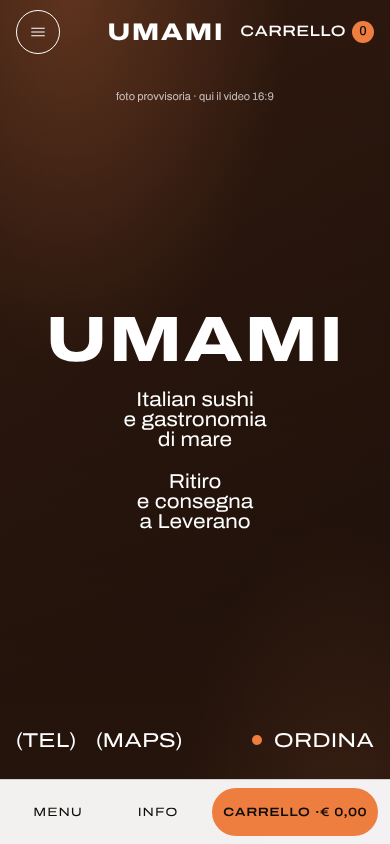
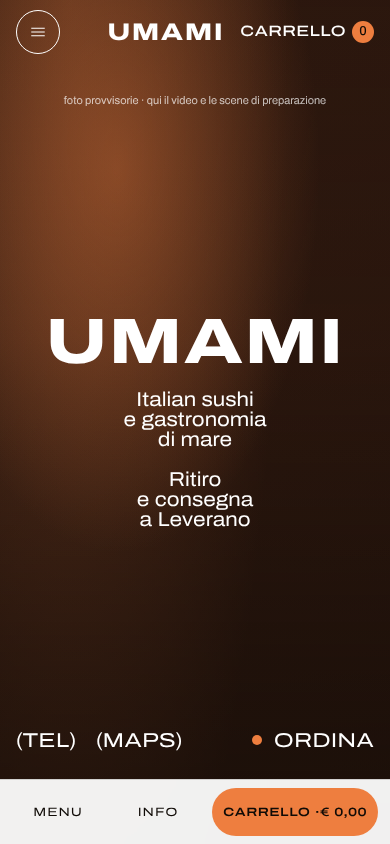
Home v2 costruita sullo studio dal vivo di Sakazuki e Watchhouse
Palcoscenico con foto ferma e capitoli che scorrono, foto in dissolvenza,
cornice fissa e luce arancio; sotto, due pannelli fotografici, enunciato,
piatti firmati e tessere in stile Watchhouse. Tolte le sezioni inventate.

Claude-Session: https://claude.ai/code/session_01LSCnPxq5ZLnrvnRqcxrqF5

diff --git a/prototipo/index.html b/prototipo/index.html
@@ -14,6 +14,7 @@
 <link rel="stylesheet" href="../assets/css/components.css">
 <link rel="stylesheet" href="../assets/css/pagine.css">
 <link rel="stylesheet" href="../assets/css/v7.css">
+<link rel="stylesheet" href="../assets/css/home.css">
 <style>img.manca { display: none; }</style>
 </head>
 <body>
@@ -51,72 +52,87 @@
 
 <main id="contenuto">
 
-<!-- APERTURA (Sakazuki 1–2) · in produzione: video 16:9 in loop, muto, con pausa -->
-<section class="v7-hero" aria-labelledby="hero-t">
-  <div class="v7-hero__media"><img src="../assets/img/provvisorie/copertina_misto.jpg" alt="" fetchpriority="high" onerror="this.classList.add('manca')"></div>
-  <p class="v7-hero__nota" aria-hidden="true">foto provvisoria · qui il video 16:9</p>
-  <div class="v7-hero__centro">
-    <p class="v7-hero__lato v7-hero__lato--sx">Italian sushi<br>e gastronomia<br>di mare</p>
-    <h1 class="v7-hero__marchio" id="hero-t">UMAMI<span class="sr-only"> Salento, Italian sushi a Leverano</span></h1>
-    <p class="v7-hero__lato v7-hero__lato--dx">Ritiro<br>e consegna<br>a Leverano</p>
+<!-- PALCOSCENICO (Sakazuki): una foto ferma a tutto schermo, il testo scorre sopra in capitoli,
+     la foto cambia in dissolvenza a ogni capitolo, cornice fissa (link, orologio, Ordina).
+     In produzione: i fondi diventano il video 16:9 e le scene di preparazione dello shooting. -->
+<section class="palco" aria-label="Umami Salento">
+  <div class="palco__fondi" aria-hidden="true">
+    <img class="is-attivo" data-cap="0" src="../assets/img/provvisorie/copertina_misto.jpg" alt="" fetchpriority="high" onerror="this.classList.add('manca')">
+    <img data-cap="1" src="../assets/img/provvisorie/18.jpg" alt="" loading="lazy" onerror="this.classList.add('manca')">
+    <img data-cap="2" src="../assets/img/provvisorie/copertina-6.jpg" alt="" loading="lazy" onerror="this.classList.add('manca')">
+    <span class="palco__nota">foto provvisorie · qui il video e le scene di preparazione</span>
   </div>
-  <div class="v7-hero__piede">
-    <nav class="v7-hero__link" aria-label="Contatti rapidi"><a href="tel:+393476168387">(Tel)</a><a href="https://www.google.com/maps/search/?api=1&amp;query=Via+della+Consolazione+55+73045+Leverano+LE" rel="noopener">(Maps)</a></nav>
-    <p class="v7-hero__orologio"><span id="orologio">Leverano</span></p>
-    <a class="v7-hero__cta" href="ordina/">Ordina</a>
+
+  <div class="palco__cap palco__cap--apertura" data-cap="0">
+    <p class="palco__lato palco__lato--sx">Italian sushi<br>e gastronomia<br>di mare</p>
+    <h1 class="palco__marchio">UMAMI<span class="sr-only"> Salento, Italian sushi a Leverano</span></h1>
+    <p class="palco__lato palco__lato--dx">Ritiro<br>e consegna<br>a Leverano</p>
+  </div>
+
+  <div class="palco__cap" data-cap="1" id="chi-siamo">
+    <p class="palco__piccolo">Umami nasce dalla connessione di due cuochi salentini, appassionati e ricercatori di prodotti del territorio</p>
+    <h2 class="palco__gigante">Il territorio<br><span class="palco__segno" aria-hidden="true">✕</span><br>il mondo</h2>
+    <p class="palco__piccolo">che contaminano con sapori unici provenienti da tutto il mondo.</p>
+  </div>
+
+  <div class="palco__cap" data-cap="2">
+    <p class="palco__etichetta">Ogni sera</p>
+    <p class="palco__frase">Gastronomia di mare e Italian sushi. Ritiro in Via della Consolazione, consegna a domicilio, catering in Salento.</p>
+    <a class="u-btn u-btn--l u-btn--segnale" href="ordina/">Ordina per stasera</a>
+  </div>
+
+  <div class="palco__cornice">
+    <nav class="palco__link" aria-label="Contatti rapidi"><a href="tel:+393476168387">(Tel)</a><a href="https://www.google.com/maps/search/?api=1&amp;query=Via+della+Consolazione+55+73045+Leverano+LE" rel="noopener">(Maps)</a></nav>
+    <p class="palco__orologio"><span id="orologio">Leverano</span></p>
+    <a class="palco__cta" href="ordina/">Ordina</a>
   </div>
 </section>
 
-<!-- COLONNA CENTRATA (Sakazuki 3) · testo reale da "Chi siamo" -->
-<section class="contenitore v7-colonna" id="chi-siamo" aria-labelledby="chi-t">
-  <p class="rivela">Umami nasce dalla connessione di due cuochi salentini, appassionati e ricercatori di prodotti del territorio</p>
-  <h2 class="v7-gigante rivela" id="chi-t" style="--i:1">Il territorio</h2>
-  <span class="v7-timbro rivela" style="--i:2" aria-hidden="true">UMAMI</span>
-  <p class="v7-gigante rivela" style="--i:3" aria-hidden="true"><em>Il mondo</em></p>
-  <p class="rivela" style="--i:4">che contaminano con sapori unici provenienti da tutto il mondo.</p>
-  <a class="u-btn u-btn--l rivela" style="--i:5" href="ordina/">Guarda il menu</a>
+<!-- DUE PANNELLI (Watchhouse "Shop coffee."): foto grandi affiancate, titolo col punto, riga e freccia -->
+<section class="duo" aria-label="Ordina o prenota un catering">
+  <a class="duo__pannello" href="ordina/">
+    <img src="../assets/img/provvisorie/tartare2.jpg" alt="" loading="lazy" onerror="this.classList.add('manca')">
+    <span class="duo__num" aria-hidden="true">01</span>
+    <span class="duo__testo"><span class="duo__titolo">Ordina il menu.</span><span class="duo__riga">Ritiro o consegna stasera <span aria-hidden="true">→</span></span></span>
+  </a>
+  <a class="duo__pannello" href="tel:+393476168387" id="servizi">
+    <img src="../assets/img/provvisorie/buffet.jpg" alt="" loading="lazy" onerror="this.classList.add('manca')">
+    <span class="duo__num" aria-hidden="true">02</span>
+    <span class="duo__testo"><span class="duo__titolo">Catering.</span><span class="duo__sotto">Vassoi per eventi privati e aziendali, servizio on site con open bar.</span><span class="duo__riga">Chiama per un preventivo <span aria-hidden="true">→</span></span></span>
+  </a>
 </section>
 
-<!-- PIATTI FIRMATI · nomi, prezzi e descrizioni dal catalogo reale; foto provvisorie -->
-<section class="sezione" style="padding-top:0" aria-labelledby="firme-t">
-  <div class="contenitore">
-    <div class="v7-sez-testa"><h2 id="firme-t">Il Salento, <em>in un roll</em></h2><a class="u-btn u-btn--secondario" href="ordina/">Tutto il menu</a></div>
-    <div class="v7-prodotti" id="firme"></div>
+<!-- ENUNCIATO (Watchhouse "Modern Coffee."): etichetta a sinistra, frase grande a destra -->
+<section class="enunciato contenitore" aria-labelledby="enu-t">
+  <h2 class="enunciato__etichetta" id="enu-t">Umami Salento.</h2>
+  <p class="enunciato__frase rivela">Due cuochi salentini, i prodotti del territorio e i sapori di tutto il mondo: Italian sushi, poke, tartare e cucina di mare, da ritirare o con consegna a domicilio.</p>
+</section>
+
+<!-- PIATTI FIRMATI -->
+<section class="contenitore firme" aria-labelledby="firme-t">
+  <div class="firme__testa"><h2 class="enunciato__etichetta" id="firme-t">Piatti firmati.</h2><a class="firme__tutto" href="ordina/">Tutto il menu <span aria-hidden="true">→</span></a></div>
+  <div class="firme__griglia" id="firme"></div>
+</section>
+
+<!-- ALTRE ANIME (Watchhouse: tessere con l'etichetta dentro la foto) -->
+<section class="contenitore tessere" aria-labelledby="anime-t">
+  <h2 class="enunciato__etichetta" id="anime-t">Non solo take away.</h2>
+  <div class="tessere__griglia">
+    <div class="tessera"><img src="../assets/img/provvisorie/18.jpg" alt="" loading="lazy" onerror="this.classList.add('manca')"><span class="tessera__nome">Ramen</span><span class="tessera__nota">Contenuti in arrivo</span></div>
+    <div class="tessera"><img src="../assets/img/provvisorie/buffet2.jpg" alt="" loading="lazy" onerror="this.classList.add('manca')"><span class="tessera__nome">Chef a domicilio</span><span class="tessera__nota">Contenuti in arrivo</span></div>
+    <div class="tessera"><span class="tessera__nome">Street food</span><span class="tessera__nota">Arriva con la mascotte</span></div>
   </div>
 </section>
 
-<!-- COME SI ORDINA -->
-<section class="sezione" style="padding-top:0" aria-labelledby="come-t">
-  <div class="contenitore">
-    <div class="p-testa"><p class="eyebrow">Ordinare online</p><h2 id="come-t">Pronto <em>per stasera</em></h2></div>
-    <ol class="h-passi">
-      <li class="rivela"><h3>Scegli dal menu</h3><p>Uramaki, poke, tartare, gyoza, bao e bevande. Allergeni indicati su ogni piatto.</p></li>
-      <li class="rivela" style="--i:1"><h3>Ritiro o consegna</h3><p>Scegli l'orario. Ritiri in Via della Consolazione 55 a Leverano, oppure lo portiamo a casa tua.</p></li>
-      <li class="rivela" style="--i:2"><h3>Paghi alla fine</h3><p>Il pagamento avviene al ritiro o alla consegna.</p></li>
-    </ol>
-  </div>
-</section>
-
-<!-- SERVIZI · fascia in lacca -->
-<section class="sezione tema-lacca u-grana" id="servizi" aria-labelledby="serv-t">
-  <div class="contenitore">
-    <div class="p-testa"><p class="eyebrow">Non solo take away</p><h2 id="serv-t">Le anime <em>di Umami</em></h2><hr class="u-filo u-filo--corto"></div>
-    <div class="griglia h-servizi" id="servizi-griglia"></div>
-  </div>
-</section>
-
-<!-- DOVE E QUANDO -->
-<section class="sezione" aria-labelledby="info-t">
-  <div class="contenitore h-info">
-    <div class="stack" style="--stack:var(--s-4)"><p class="eyebrow">Dove e quando</p><h2 id="info-t">Via della Consolazione, <em>Leverano</em></h2>
-      <p class="t-lead">Passa a ritirare o chiamaci per un evento.</p></div>
-    <dl class="rivela">
-      <dt>Indirizzo</dt><dd>Via della Consolazione 55<br>73045 Leverano (LE)<br><a class="u-link" href="https://www.google.com/maps/search/?api=1&amp;query=Via+della+Consolazione+55+73045+Leverano+LE" rel="noopener">Apri in Maps</a></dd>
-      <dt>Orari</dt><dd>Tutti i giorni 19:00–23:30<br>Mercoledì chiuso<br><span class="u-stato" data-stato></span></dd>
-      <dt>Telefono</dt><dd><a class="u-link" href="tel:+393476168387">+39 347 616 8387</a></dd>
-      <dt>Catering</dt><dd>Province di Lecce, Taranto e Brindisi</dd>
-    </dl>
-  </div>
+<!-- DOVE E QUANDO: stessa impaginazione etichetta / contenuto -->
+<section class="enunciato contenitore" aria-labelledby="info-t">
+  <h2 class="enunciato__etichetta" id="info-t">Dove e quando.</h2>
+  <dl class="info">
+    <div><dt>Indirizzo</dt><dd>Via della Consolazione 55<br>73045 Leverano (LE)<br><a class="u-link" href="https://www.google.com/maps/search/?api=1&amp;query=Via+della+Consolazione+55+73045+Leverano+LE" rel="noopener">Apri in Maps</a></dd></div>
+    <div><dt>Orari</dt><dd>Tutti i giorni 19:00–23:30<br>Mercoledì chiuso<br><span class="u-stato" data-stato></span></dd></div>
+    <div><dt>Telefono</dt><dd><a class="u-link" href="tel:+393476168387">+39 347 616 8387</a></dd></div>
+    <div><dt>Catering</dt><dd>Province di Lecce, Taranto e Brindisi</dd></div>
+  </dl>
 </section>
 
 </main>
@@ -140,31 +156,34 @@
 <script>
 (function () {
   var U = window.UMAMI, P = U.PRODOTTI;
-  /* Piatti firmati: quelli con i nomi del territorio o la ricetta di casa */
+  /* Piatti firmati: i roll col nome del territorio e la ricetta di casa */
   var firme = ["leverano-roll", "umami-roll", "salento-roll", "tartare-di-tonno"];
   document.getElementById("firme").innerHTML = firme.map(function (id, i) {
     var x = P[id]; if (!x) return "";
-    return '<article class="v7-prod rivela" style="--i:' + i + '">' +
-      '<div class="v7-prod__media"><img src="' + U.IMG + x.foto + '" alt="" loading="lazy" onerror="this.classList.add(\'manca\')"></div><span class="v7-prod__badge">Foto provvisoria</span>' +
-      '<div class="v7-prod__corpo"><div class="v7-prod__riga"><h3 class="v7-prod__nome">' + U.esc(x.nome) + '</h3>' + U.prezzo(x) + '</div>' +
-      '<p class="v7-prod__desc">' + U.esc(x.d) + '</p><div class="v7-prod__piede">' + U.allergeni(x.al) + U.bottoneAggiungi(x) + '</div></div></article>';
+    return '<article class="piatto rivela" style="--i:' + i + '">' +
+      '<div class="piatto__foto"><img src="' + U.IMG + x.foto + '" alt="" loading="lazy" onerror="this.classList.add(\'manca\')"><span class="piatto__badge">Foto provvisoria</span></div>' +
+      '<div class="piatto__riga"><h3 class="piatto__nome">' + U.esc(x.nome) + '.</h3>' + U.prezzo(x) + '</div>' +
+      '<p class="piatto__desc">' + U.esc(x.d) + '</p>' +
+      '<div class="piatto__piede">' + U.allergeni(x.al) + U.bottoneAggiungi(x) + '</div></article>';
   }).join("");
 
-
-  /* Servizi: testi dal sito attuale; dove mancano, lo dichiariamo */
-  var servizi = [
-    { t: "Sushi take away", d: "Italian sushi, poke e tartare da ritirare o con consegna a domicilio.", img: "copertina_3.jpg", href: "ordina/", cta: "Ordina" },
-    { t: "Catering", d: "Vassoi per eventi privati e aziendali, servizio on site con open bar.", img: "buffet.jpg", href: "tel:+393476168387", cta: "Chiama per un preventivo" },
-    { t: "Ramen", d: "Contenuti in arrivo: produzione artigianale del ramen.", img: "18.jpg" },
-    { t: "Chef a domicilio", d: "Contenuti in arrivo dal cliente.", img: "buffet2.jpg" },
-    { t: "Street food", d: "Food truck, fiere ed eventi. Arriva con la mascotte.", img: "" }
-  ];
-  document.getElementById("servizi-griglia").innerHTML = servizi.map(function (s, i) {
-    var tag = s.href ? "a" : "div";
-    return "<" + tag + ' class="u-servizio rivela' + (s.img ? "" : " u-servizio--in-arrivo") + '" style="--i:' + i + '"' + (s.href ? ' href="' + s.href + '"' : "") + ">" +
-      '<div class="u-servizio__media u-foto-calda rivela-img" style="--i:' + i + '">' + (s.img ? '<img src="' + U.IMG + s.img + '" alt="" loading="lazy" onerror="this.classList.add(\'manca\')">' : "<span>foto in arrivo</span>") + "</div>" +
-      '<div class="u-servizio__corpo"><h3 class="u-servizio__titolo">' + s.t + '</h3><p class="t-meta">' + s.d + "</p>" + (s.cta ? '<span class="u-servizio__cta">' + s.cta + "</span>" : "") + "</div></" + tag + ">";
-  }).join("");
+  /* Palcoscenico: la foto di fondo cambia col capitolo in vista */
+  var fondi = document.querySelectorAll(".palco__fondi img");
+  if ("IntersectionObserver" in window) {
+    var io = new IntersectionObserver(function (voci) {
+      voci.forEach(function (v) {
+        if (!v.isIntersecting) return;
+        var n = v.target.getAttribute("data-cap");
+        fondi.forEach(function (f) { f.classList.toggle("is-attivo", f.getAttribute("data-cap") === n); });
+        v.target.classList.add("is-in-scena");
+      });
+    }, { threshold: 0.45 });
+    document.querySelectorAll(".palco__cap").forEach(function (c) { io.observe(c); });
+  }
+  /* la testata resta trasparente per tutto il palcoscenico */
+  var palco = document.querySelector(".palco"), hd = document.querySelector(".v7-header");
+  function sopra() { if (hd && palco) hd.classList.toggle("is-scorso", palco.getBoundingClientRect().bottom < 80); }
+  addEventListener("scroll", sopra, { passive: true }); sopra();
   U.osserva();
 })();
 </script>

diff --git a/assets/css/home.css b/assets/css/home.css
@@ -1,0 +1,108 @@
+/* =========================================================================
+   UMAMI — Home v2 · costruita sui siti premiati studiati dal vivo
+   Sakazuki: palcoscenico con foto ferma a tutto schermo, testo che scorre sopra
+             in capitoli, foto che cambia in dissolvenza, cornice fissa.
+             Il calore viene dalla LUCE delle foto (qui una velatura arancio).
+   Watchhouse: due pannelli fotografici affiancati con titolo col punto e riga
+             con freccia; etichetta a sinistra e frase grande a destra; tessere
+             con l'etichetta dentro la foto. Fondo chiaro, margini di 20 px.
+   ========================================================================= */
+
+/* ---------- Palcoscenico ---------- */
+.palco { position: relative; overflow: clip; color: #fff; background-color: var(--c-rame-2); background-image: var(--rame-sfumato); isolation: isolate; }
+.palco__fondi { position: sticky; top: 0; height: 100svh; margin-bottom: -100svh; overflow: hidden; z-index: 0; }
+.palco__fondi img { position: absolute; inset: 0; width: 100%; height: 100%; object-fit: cover; opacity: 0; transform: scale(1.06);
+  transition: opacity 1200ms var(--ease), transform 2400ms var(--ease); }
+.palco__fondi img.is-attivo { opacity: 1; transform: scale(1); }
+/* velatura: luce calda arancio dall'alto, ombra in basso (come la luce ambrata di Sakazuki) */
+.palco__fondi::after { content: ""; position: absolute; inset: 0; pointer-events: none;
+  background: radial-gradient(80% 70% at 30% 20%, rgba(238,126,63,.38), rgba(238,126,63,0) 65%), linear-gradient(180deg, rgba(22,13,8,.35) 0%, rgba(22,13,8,.25) 40%, rgba(22,13,8,.7) 100%);
+  mix-blend-mode: normal; }
+.palco__nota { position: absolute; top: 92px; left: 50%; translate: -50% 0; font-size: .6875rem; opacity: .7; z-index: 1; white-space: nowrap; }
+.palco__cap { position: relative; z-index: 1; min-height: 100svh; display: grid; place-content: center; justify-items: center; text-align: center; gap: clamp(20px, 3vw, 36px); padding: 120px var(--gutter); }
+.palco__cap > * { opacity: 0; transform: translateY(24px); transition: opacity 900ms var(--ease), transform 900ms var(--ease); }
+.palco__cap.is-in-scena > * { opacity: 1; transform: none; }
+.palco__cap.is-in-scena > *:nth-child(2) { transition-delay: 120ms; } .palco__cap.is-in-scena > *:nth-child(3) { transition-delay: 240ms; }
+html:not(.js) .palco__cap > * { opacity: 1; transform: none; }
+@media (prefers-reduced-motion: reduce) { .palco__fondi img, .palco__cap > * { transition-duration: 1ms; transform: none; } }
+
+/* Capitolo 1: marchio al centro, due testi in cornice simmetrica */
+.palco__cap--apertura { grid-template-columns: 1fr auto 1fr; align-items: center; gap: clamp(20px, 4vw, 56px); padding-inline: 28px; }
+.palco__marchio { font-family: var(--font-display); font-stretch: 125%; font-weight: 800; font-size: clamp(4rem, 1rem + 11vw, 11rem); line-height: .85; letter-spacing: .02em; color: #fff; text-transform: uppercase; }
+.palco__lato { font-family: var(--font-display); font-stretch: 112%; font-size: clamp(1.25rem, .8rem + 1vw, 1.9rem); line-height: 1; max-width: none; }
+.palco__lato--sx { text-align: right; justify-self: end; } .palco__lato--dx { text-align: left; justify-self: start; }
+/* Capitolo 2: piccolo / gigante / piccolo */
+.palco__piccolo { max-width: 32ch; font-family: var(--font-display); font-stretch: 112%; font-size: clamp(1.0625rem, .9rem + .4vw, 1.375rem); line-height: 1.25; }
+.palco__gigante { font-weight: 500; font-size: clamp(2.8rem, .6rem + 8.4vw, 8.5rem); line-height: .92; color: #fff; }
+.palco__segno { display: inline-block; font-size: .32em; color: var(--c-corallo); line-height: 1; padding-block: .2em; }
+/* Capitolo 3: etichetta e frase */
+.palco__etichetta { font-family: var(--font-display); font-stretch: 125%; text-transform: uppercase; letter-spacing: .14em; font-size: .8125rem; }
+.palco__frase { max-width: 24ch; font-family: var(--font-display); font-stretch: 112%; font-size: clamp(1.75rem, 1rem + 2.6vw, 3.4rem); line-height: 1.08; }
+/* Cornice fissa in basso (resta per tutto il palcoscenico) */
+.palco__cornice { position: sticky; bottom: 0; z-index: 2; display: grid; grid-template-columns: 1fr auto 1fr; align-items: end; padding: 0 28px 24px; margin-top: -96px; height: 96px; pointer-events: none; }
+.palco__cornice a { pointer-events: auto; }
+.palco__link { display: flex; gap: 20px; }
+.palco__link a, .palco__cta { font-family: var(--font-display); font-stretch: 125%; text-transform: uppercase; font-size: clamp(1.25rem, .6rem + 1.6vw, 2.65rem); line-height: 1.2; text-decoration: none; color: #fff; }
+.palco__orologio { font-family: var(--font-display); font-stretch: 125%; text-transform: uppercase; font-size: 1.0625rem; padding-bottom: 10px; }
+.palco__cta { justify-self: end; display: inline-flex; align-items: center; gap: 12px; }
+.palco__cta::before { content: ""; width: 10px; height: 10px; border-radius: 50%; background: var(--c-corallo); }
+@media (hover: hover) and (pointer: fine) { .palco__link a:hover, .palco__cta:hover { text-decoration: underline; text-decoration-thickness: 2px; text-underline-offset: .15em; } }
+@media (max-width: 760px) {
+  .palco__cap--apertura { grid-template-columns: 1fr; justify-items: center; }
+  .palco__lato--sx, .palco__lato--dx { text-align: center; justify-self: center; }
+  .palco__marchio { order: -1; }
+  .palco__cornice { grid-template-columns: 1fr auto; padding: 0 16px 92px; height: 160px; margin-top: -160px; }
+  .palco__orologio { display: none; }
+}
+
+/* ---------- Due pannelli (Watchhouse) ---------- */
+.duo { display: grid; grid-template-columns: 1fr 1fr; gap: 0; padding: 20px 20px 0; }
+@media (max-width: 760px) { .duo { grid-template-columns: 1fr; padding: 12px 12px 0; gap: 12px; } }
+.duo__pannello { position: relative; aspect-ratio: 1 / 0.92; overflow: hidden; color: #fff; text-decoration: none; background: var(--c-rame-1); }
+.duo__pannello img { position: absolute; inset: 0; width: 100%; height: 100%; object-fit: cover; transition: transform 1200ms var(--ease); }
+.duo__pannello::after { content: ""; position: absolute; inset: 0; background: linear-gradient(180deg, rgba(22,13,8,0) 45%, rgba(22,13,8,.62)); }
+@media (hover: hover) and (pointer: fine) { .duo__pannello:hover img { transform: scale(1.04); } .duo__pannello:hover .duo__riga span { transform: translateX(6px); } }
+.duo__num { position: absolute; top: 20px; left: 20px; z-index: 1; font-size: .8125rem; font-variant-numeric: tabular-nums; }
+.duo__testo { position: absolute; left: 20px; right: 20px; bottom: 28px; z-index: 1; display: grid; gap: 12px; max-width: 30rem; }
+.duo__titolo { font-family: var(--font-display); font-stretch: 112%; font-weight: 600; font-size: clamp(2rem, 1.2rem + 2.4vw, 3.5rem); line-height: 1; letter-spacing: -0.02em; }
+.duo__sotto { font-size: 1rem; line-height: 1.35; max-width: 34ch; }
+.duo__riga { display: flex; justify-content: space-between; gap: 16px; padding-top: 12px; border-top: 1px solid rgba(255,255,255,.55); font-size: .9375rem; max-width: 18rem; }
+.duo__riga span { transition: transform var(--dur-2) var(--ease); }
+
+/* ---------- Enunciato (etichetta a sinistra, frase grande a destra) ---------- */
+.enunciato { display: grid; grid-template-columns: minmax(0, 1fr) minmax(0, 2fr); gap: 24px 48px; padding-block: clamp(64px, 9vw, 128px); align-items: start; }
+@media (max-width: 760px) { .enunciato { grid-template-columns: 1fr; } }
+.enunciato__etichetta { font-family: var(--font-display); font-stretch: 112%; font-weight: 600; font-size: 1.125rem; text-transform: none; letter-spacing: -0.01em; line-height: 1.2; }
+.enunciato__frase { font-family: var(--font-display); font-stretch: 112%; font-weight: 500; font-size: clamp(1.6rem, 1rem + 2vw, 2.75rem); line-height: 1.1; letter-spacing: -0.02em; max-width: 30ch; }
+.info { margin: 0; display: grid; grid-template-columns: repeat(2, minmax(0, 1fr)); gap: 32px; }
+@media (max-width: 560px) { .info { grid-template-columns: 1fr; } }
+.info div { border-top: 1px solid rgba(16,11,6,.2); padding-top: 12px; }
+.info dt { font-size: .8125rem; color: var(--text-3); margin-bottom: 6px; }
+.info dd { margin: 0; font-size: 1.0625rem; line-height: 1.45; }
+
+/* ---------- Piatti firmati ---------- */
+.firme { padding-bottom: clamp(48px, 7vw, 96px); }
+.firme__testa { display: flex; justify-content: space-between; align-items: baseline; padding-top: 12px; border-top: 1px solid rgba(16,11,6,.2); margin-bottom: 24px; }
+.firme__tutto { text-decoration: none; font-size: .9375rem; }
+.firme__griglia { display: grid; grid-template-columns: repeat(auto-fill, minmax(min(100%, 260px), 1fr)); gap: 40px 20px; }
+.piatto { display: flex; flex-direction: column; gap: 10px; }
+.piatto__foto { position: relative; aspect-ratio: 4 / 5; overflow: hidden; background: var(--c-carta-scura); }
+.piatto__foto img { width: 100%; height: 100%; object-fit: cover; transition: transform 1000ms var(--ease); }
+@media (hover: hover) and (pointer: fine) { .piatto:hover .piatto__foto img { transform: scale(1.04); } }
+.piatto__badge { position: absolute; left: 10px; top: 10px; font-size: .6875rem; background: #fff; padding: 3px 8px; }
+.piatto__riga { display: flex; justify-content: space-between; align-items: baseline; gap: 12px; margin-top: 4px; }
+.piatto__nome { font-family: var(--font-display); font-stretch: 112%; font-weight: 600; font-size: 1.25rem; letter-spacing: -0.01em; text-transform: none; line-height: 1.1; }
+.piatto__desc { font-size: .9375rem; color: var(--text-3); line-height: 1.4; display: -webkit-box; -webkit-line-clamp: 2; -webkit-box-orient: vertical; overflow: hidden; }
+.piatto__piede { margin-top: auto; display: flex; justify-content: space-between; align-items: center; gap: 12px; padding-top: 6px; }
+
+/* ---------- Tessere ---------- */
+.tessere { padding-bottom: clamp(32px, 5vw, 64px); }
+.tessere .enunciato__etichetta { padding-top: 12px; border-top: 1px solid rgba(16,11,6,.2); margin-bottom: 24px; }
+.tessere__griglia { display: grid; grid-template-columns: repeat(3, minmax(0, 1fr)); gap: 12px; }
+@media (max-width: 760px) { .tessere__griglia { grid-template-columns: 1fr 1fr; } }
+.tessera { position: relative; aspect-ratio: 1; overflow: hidden; background: var(--c-rame-1); color: #fff; }
+.tessera img { position: absolute; inset: 0; width: 100%; height: 100%; object-fit: cover; }
+.tessera::after { content: ""; position: absolute; inset: 0; background: linear-gradient(180deg, rgba(22,13,8,.1), rgba(22,13,8,.6)); }
+.tessera__nome, .tessera__nota { position: absolute; left: 14px; z-index: 1; }
+.tessera__nome { bottom: 34px; font-family: var(--font-display); font-stretch: 125%; text-transform: uppercase; letter-spacing: .12em; font-size: .8125rem; }
+.tessera__nota { bottom: 14px; font-size: .8125rem; opacity: .85; }

diff --git a/assets/js/umami.js b/assets/js/umami.js
@@ -240,7 +240,7 @@
     var orol = doc.getElementById("orologio");
     if (orol) { var ora = function () { orol.textContent = "Leverano, " + new Intl.DateTimeFormat("it-IT", { timeZone: "Europe/Rome", hour: "2-digit", minute: "2-digit", second: "2-digit" }).format(new Date()); }; ora(); setInterval(ora, 1000); }
     // header trasparente solo sopra l'apertura
-    if (hdx && !hdx.classList.contains("is-solida")) { var sc = function () { hdx.classList.toggle("is-scorso", scrollY > innerHeight - 80); }; addEventListener("scroll", sc, { passive: true }); sc(); }
+    if (hdx && !hdx.classList.contains("is-solida") && !doc.querySelector(".palco")) { var sc = function () { hdx.classList.toggle("is-scorso", scrollY > innerHeight - 80); }; addEventListener("scroll", sc, { passive: true }); sc(); }
 
     // menu di navigazione su mobile
     var mb = doc.querySelector(".u-header__menu-btn"), nm = doc.getElementById("nav-mobile");

diff --git a/docs/fase-3/STUDIO-PREMIATI.md b/docs/fase-3/STUDIO-PREMIATI.md
@@ -1,0 +1,22 @@
+# Studio dal vivo dei siti premiati (dopo l'apertura della rete)
+
+Fino a qui avevo lavorato su dati estratti (font, colori, coordinate) senza vedere i siti. Visti dal vivo:
+
+## Sakazuki (Sito del giorno)
+- **Un solo palcoscenico**: foto a tutto schermo FERMA, il testo scorre sopra in capitoli; a ogni capitolo la foto cambia in dissolvenza (bicchiere di sakè → mastro che versa → frutto).
+- **Cornice fissa**: menu in alto, social e orologio in basso, sempre visibili.
+- **Il calore arancio viene dalla luce delle foto**, non da fondi colorati. Nessuna scheda, nessun box.
+- Testo bianco centrato: piccolo / gigante / piccolo.
+
+## Watchhouse (Menzione d'onore)
+- **Due pannelli fotografici affiancati** con margini di 20 px, titolo col punto sopra la foto ("Shop coffee."), riga sottile con "Discover →", numeri 01 02 03.
+- **Etichetta piccola a sinistra, frase grande a destra** ("Modern Coffee." / "Our pursuit of excellence…").
+- Tessere piccole con l'etichetta dentro la foto e una freccia.
+
+## Bucks Sauce
+Blocca anche i browser automatici (controllo di sicurezza di Vercel): non studiabile da qui.
+
+## Cosa cambia nella Home (v2)
+- Palcoscenico in 3 capitoli con le nostre foto e velatura di luce arancio (al posto delle fasce colorate).
+- Sotto, la parte per ordinare in stile Watchhouse: due pannelli (Ordina il menu. / Catering.), enunciato, piatti firmati, tessere (Ramen, Chef a domicilio, Street food), dove e quando.
+- Tolte le parti inventate: i 3 passi, la fascia arancione piena, la fascia servizi.
